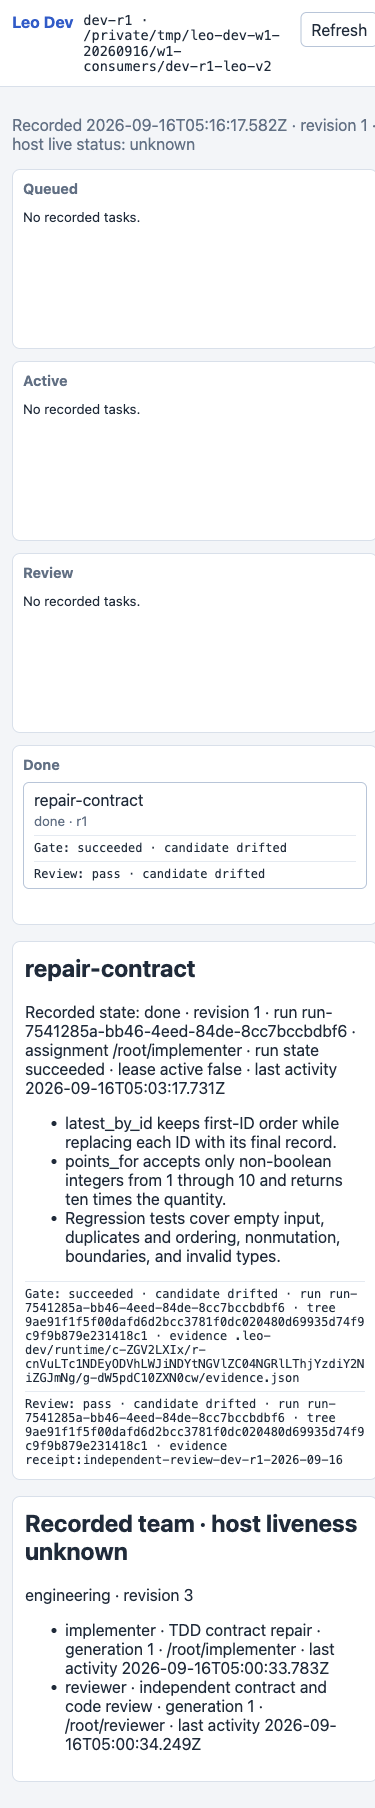
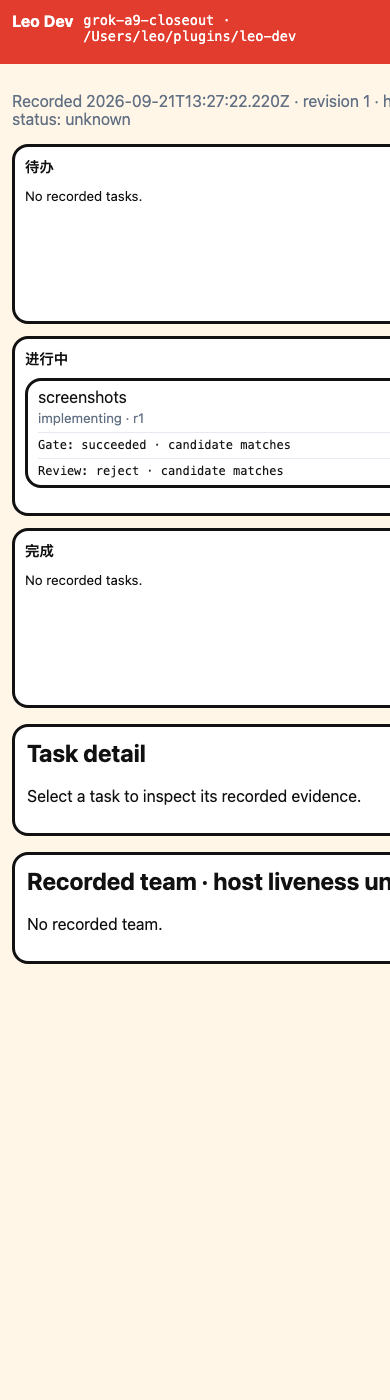
docs: replace four-column board screenshots with the three-column workbench

Changed region(s): [[0.0, 0.0, 1.0, 0.9829]]

diff --git a/README.md b/README.md
@@ -74,12 +74,10 @@ The local read-only board shows a change's recorded tasks, assignments, blockers
 team activity, and test/review evidence from the controller journal.
 
 <p align="center">
-  <img src="assets/leo-dev-board.png" width="920" alt="Leo Dev showing a completed benchmark repair, recorded test and independent review evidence, and two recorded team members">
+  <img src="assets/leo-dev-board.png" width="920" alt="Leo Dev 看板 with three Chinese columns 待办, 进行中 and 完成">
 </p>
 
-This is actual state from a coding-benchmark run. The [mobile view](assets/leo-dev-board-mobile.png)
-shows the same recorded evidence at 390 pixels. A recorded pass and its relationship
-to the current tree are displayed separately.
+This is the live three-column board: 待办 / 进行中 / 完成. Review is evidence on the card, not a fourth column. The [narrow view](assets/leo-dev-board-mobile.png) stacks the same columns. A recorded verdict and its relationship to the current tree are displayed separately.
 
 ```sh
 node packages/cli/dist/index.js board --repo /absolute/path/to/project --change your-change-id
